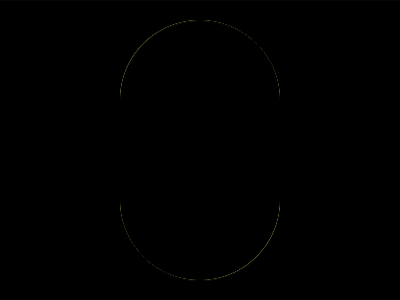
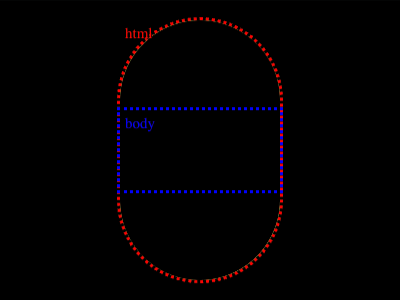
Score: 711.53, Characters: 134 (100.00% match) - CSSHub

diff --git a/README.md b/README.md
@@ -102,7 +102,7 @@
 <li><a href="./Daily%20Targets/2026-08-08/">Aug 8, 2026</a> (139 Characters)</li>
 <li><a href="./Daily%20Targets/2026-08-09/">Aug 9, 2026</a> (155 Characters)</li>
 <li><a href="./Daily%20Targets/2026-08-10/">Aug 10, 2026</a> (112 Characters)</li>
-<li><a href="./Daily%20Targets/2026-08-11/">Aug 11, 2026</a> (135 Characters)</li>
+<li><a href="./Daily%20Targets/2026-08-11/">Aug 11, 2026</a> (134 Characters)</li>
 </ul>
 </details>
 </li>

diff --git a/Daily Targets/2026-08-11/README.md b/Daily Targets/2026-08-11/README.md
@@ -22,5 +22,5 @@ Challenge: <https://cssbattle.dev/play/9PFKqCOsKmSizurb6gRt>
 ## Code
 
 ```html
-<style>&{border-radius:1in;border-block:5pc solid#f9ddc6;margin:20 120;background:#3a2568;*{border-inline:64q double#9d92c8;margin:10 0
+<style>&{border-radius:1in;border-block:5pc solid#f9ddc6;margin:5%120;background:#3a2568;*{border-inline:64Q double#9d92c8;margin:10 0
 ```
